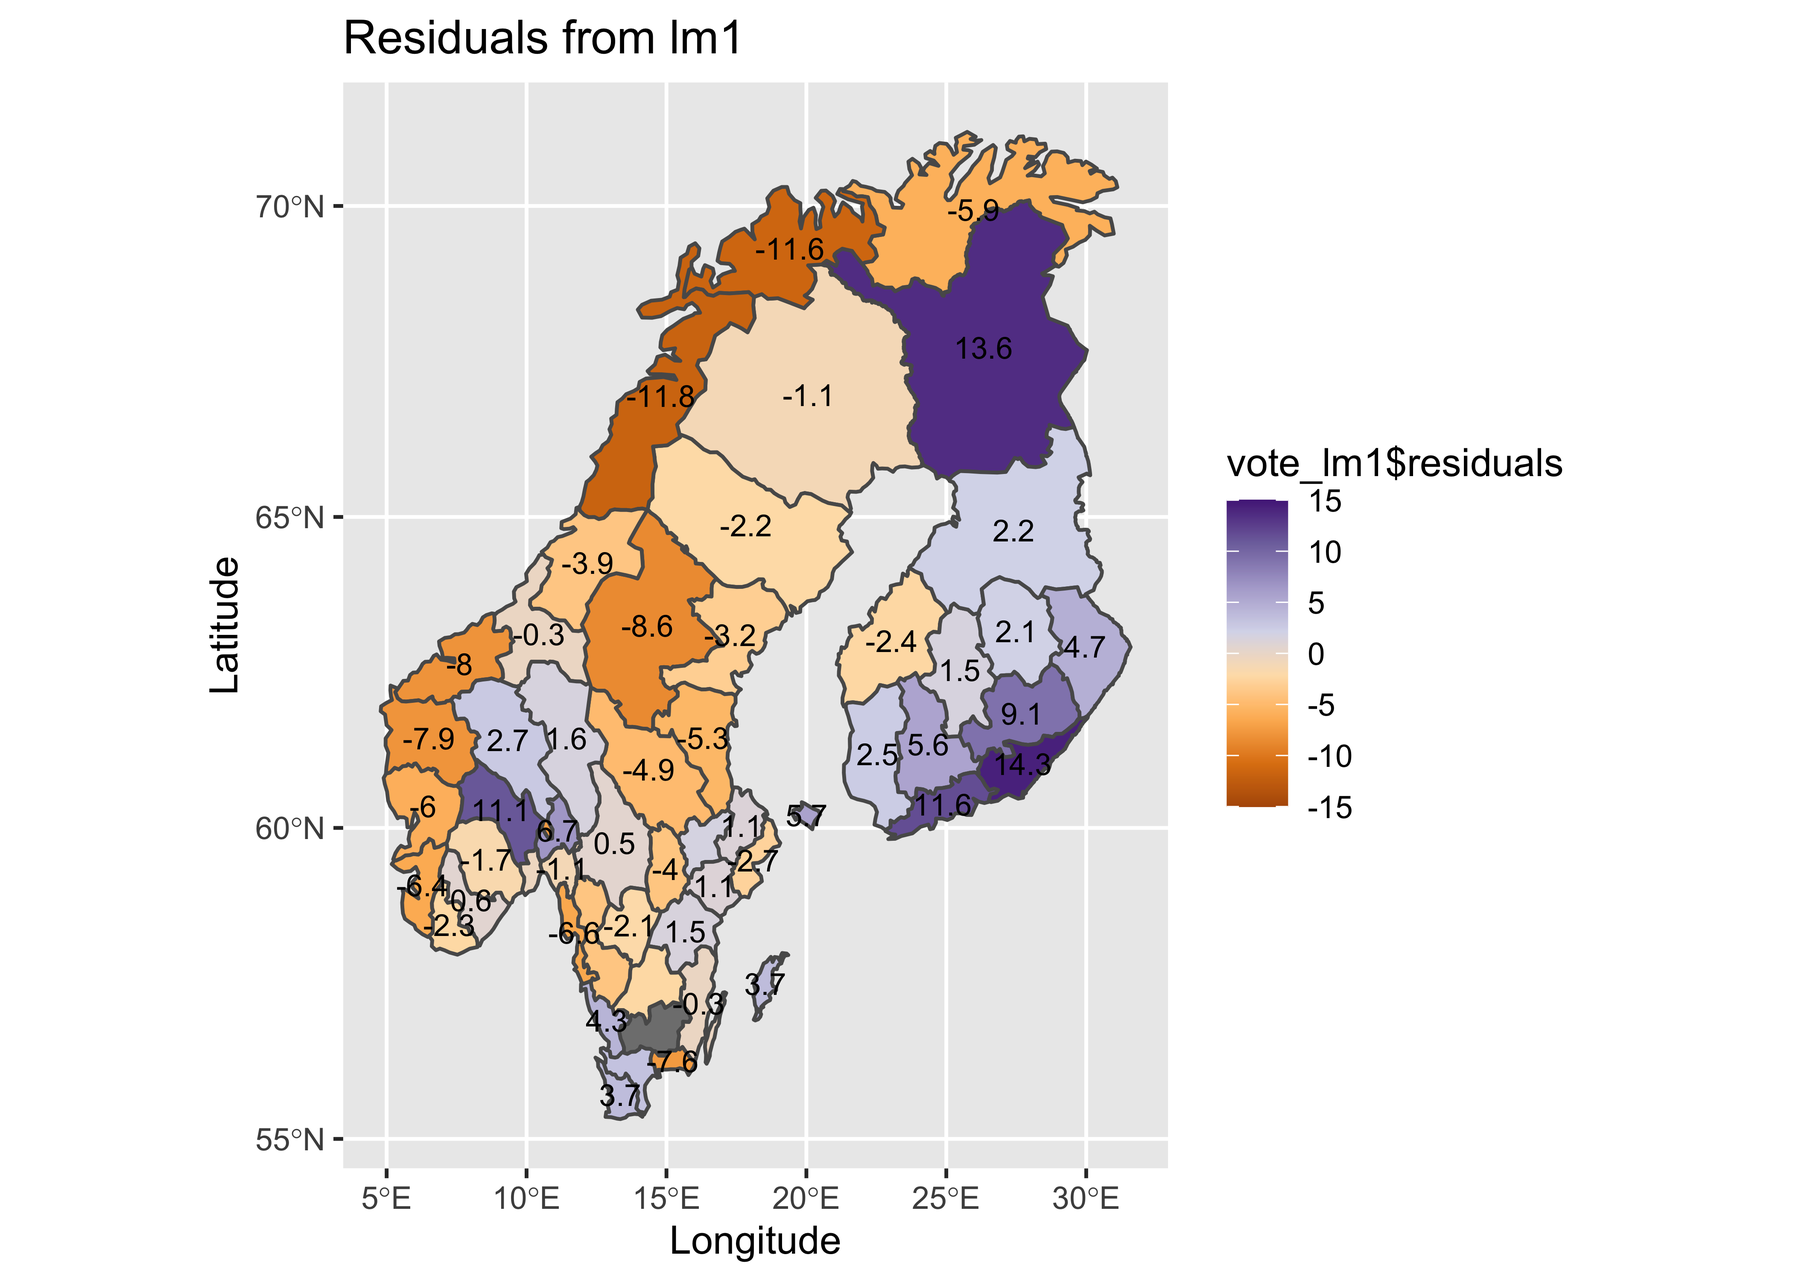
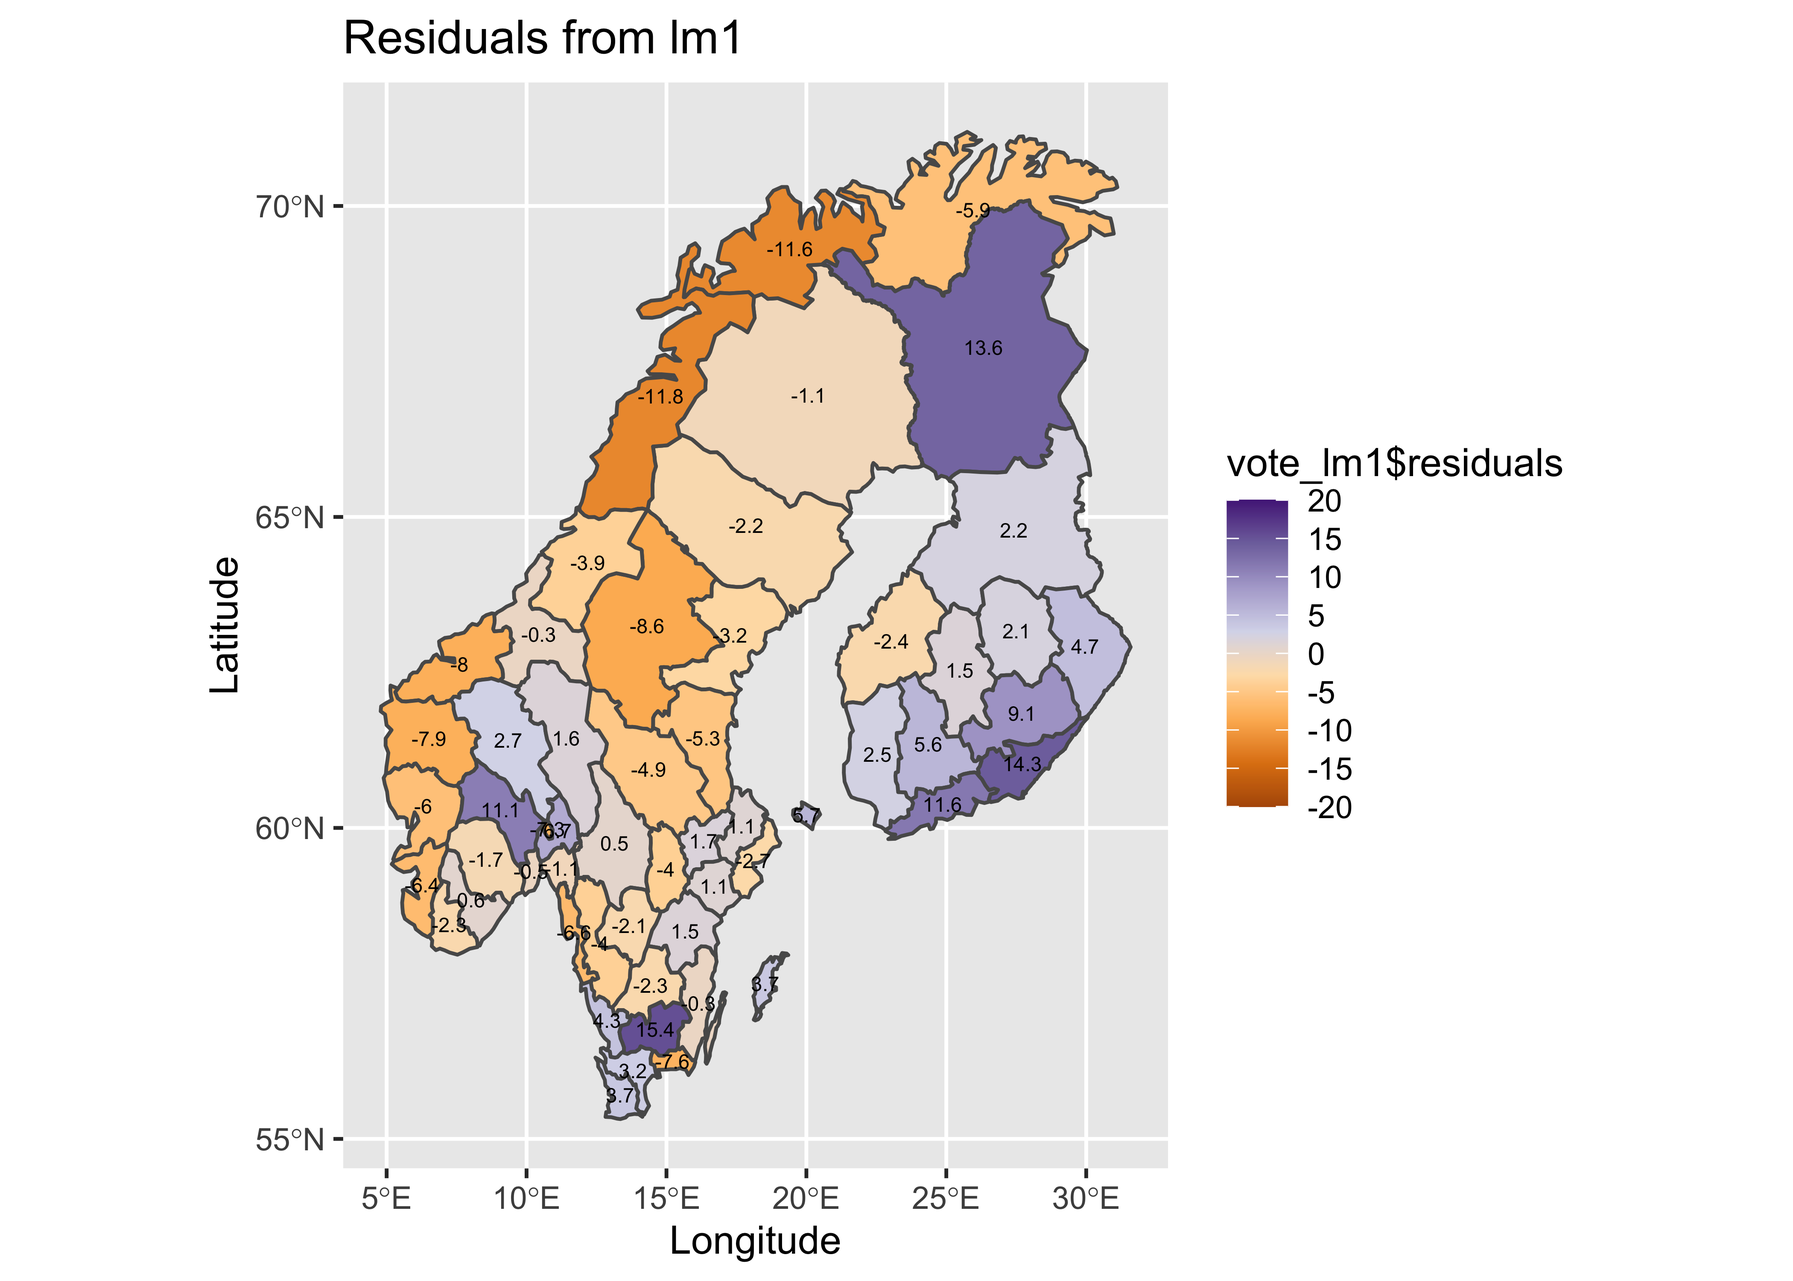
revised lec13.Rmd

diff --git a/docs/lec13.html b/docs/lec13.html
@@ -1080,7 +1080,7 @@ The example data set for illustrating the use of regression diagnostics <a href=
 <div class="sourceCode" id="cb73"><pre class="sourceCode r"><code class="sourceCode r"><a class="sourceLine" id="cb73-1" data-line-number="1"><span class="co"># ggplot2 map of temperature</span></a>
 <a class="sourceLine" id="cb73-2" data-line-number="2">plotvar &lt;-<span class="st"> </span>tmeanjul</a>
 <a class="sourceLine" id="cb73-3" data-line-number="3">plotvar &lt;-<span class="st"> </span>plotvar<span class="op">-</span><span class="kw">mean</span>(plotvar)</a>
-<a class="sourceLine" id="cb73-4" data-line-number="4">plottitle &lt;-<span class="st"> &quot;Modern Climate&quot;</span></a>
+<a class="sourceLine" id="cb73-4" data-line-number="4">plottitle &lt;-<span class="st"> &quot;Modern Climate (mean subtracted)&quot;</span></a>
 <a class="sourceLine" id="cb73-5" data-line-number="5">leglable &lt;-<span class="st"> &quot;tmeanjul (C)&quot;</span></a>
 <a class="sourceLine" id="cb73-6" data-line-number="6"><span class="kw">ggplot</span>() <span class="op">+</span></a>
 <a class="sourceLine" id="cb73-7" data-line-number="7"><span class="st">  </span><span class="kw">geom_sf</span>(<span class="dt">data =</span> midwotl_sf, <span class="dt">fill=</span><span class="st">&quot;grey70&quot;</span>, <span class="dt">color=</span><span class="st">&quot;black&quot;</span>) <span class="op">+</span></a>
@@ -1163,7 +1163,7 @@ The example data set for illustrating the use of regression diagnostics <a href=
 <a class="sourceLine" id="cb80-7" data-line-number="7"><span class="st">  </span><span class="kw">geom_sf</span>(<span class="dt">data =</span> midwotl_sf, <span class="dt">fill=</span><span class="st">&quot;grey70&quot;</span>, <span class="dt">color=</span><span class="st">&quot;black&quot;</span>) <span class="op">+</span></a>
 <a class="sourceLine" id="cb80-8" data-line-number="8"><span class="st">  </span><span class="kw">geom_point</span>(<span class="dt">data =</span> midwtf2, <span class="kw">aes</span>(<span class="dt">x =</span> longitud, <span class="dt">y =</span> latitude, <span class="dt">color =</span> plotvar), <span class="dt">size =</span> <span class="fl">5.0</span> ) <span class="op">+</span></a>
 <a class="sourceLine" id="cb80-9" data-line-number="9"><span class="st">  </span><span class="kw">scale_fill_gradient2</span>(<span class="dt">low =</span> <span class="st">&quot;blue&quot;</span>, <span class="dt">mid=</span> <span class="st">&quot;white&quot;</span>, <span class="dt">high =</span> <span class="st">&quot;red&quot;</span>, <span class="dt">aesthetics =</span> <span class="st">&#39;color&#39;</span>,</a>
-<a class="sourceLine" id="cb80-10" data-line-number="10">                       <span class="dt">limits =</span> <span class="kw">c</span>(<span class="op">-</span><span class="dv">5</span>, <span class="dv">5</span>), <span class="dt">breaks =</span> <span class="kw">seq</span>(<span class="op">-</span><span class="dv">5</span>, <span class="dv">5</span>, <span class="dt">by =</span> <span class="dv">1</span>), <span class="dt">guide =</span> <span class="st">&#39;colorbar&#39;</span>, <span class="dt">name =</span> leglable) <span class="op">+</span></a>
+<a class="sourceLine" id="cb80-10" data-line-number="10">                       <span class="dt">limits =</span> <span class="kw">c</span>(<span class="op">-</span><span class="dv">3</span>, <span class="dv">3</span>), <span class="dt">breaks =</span> <span class="kw">seq</span>(<span class="op">-</span><span class="dv">3</span>, <span class="dv">3</span>, <span class="dt">by =</span> <span class="dv">1</span>), <span class="dt">guide =</span> <span class="st">&#39;colorbar&#39;</span>, <span class="dt">name =</span> leglable) <span class="op">+</span></a>
 <a class="sourceLine" id="cb80-11" data-line-number="11"><span class="st">  </span><span class="kw">labs</span>(<span class="dt">x =</span> <span class="st">&quot;Longitude&quot;</span>, <span class="dt">y =</span> <span class="st">&quot;Latitude&quot;</span>, <span class="dt">title =</span> plottitle) </a></code></pre></div>
 <p><img src="lec13_files/figure-html/mr11-1.png" width="2100" /></p>
 <p>… and calculate the Moran statistic for the naive model residuals:</p>
@@ -1245,7 +1245,7 @@ The example data set for illustrating the use of regression diagnostics <a href=
 <a class="sourceLine" id="cb89-7" data-line-number="7"><span class="st">  </span><span class="kw">geom_sf</span>(<span class="dt">data =</span> midwotl_sf, <span class="dt">fill=</span><span class="st">&quot;grey70&quot;</span>, <span class="dt">color=</span><span class="st">&quot;black&quot;</span>) <span class="op">+</span></a>
 <a class="sourceLine" id="cb89-8" data-line-number="8"><span class="st">  </span><span class="kw">geom_point</span>(<span class="dt">data =</span> midwtf2, <span class="kw">aes</span>(<span class="dt">x =</span> longitud, <span class="dt">y =</span> latitude, <span class="dt">color =</span> plotvar), <span class="dt">size =</span> <span class="fl">5.0</span> ) <span class="op">+</span></a>
 <a class="sourceLine" id="cb89-9" data-line-number="9"><span class="st">  </span><span class="kw">scale_fill_gradient2</span>(<span class="dt">low =</span> <span class="st">&quot;blue&quot;</span>, <span class="dt">mid=</span> <span class="st">&quot;white&quot;</span>, <span class="dt">high =</span> <span class="st">&quot;red&quot;</span>, <span class="dt">aesthetics =</span> <span class="st">&#39;color&#39;</span>,</a>
-<a class="sourceLine" id="cb89-10" data-line-number="10">                       <span class="dt">limits =</span> <span class="kw">c</span>(<span class="op">-</span><span class="dv">5</span>, <span class="dv">5</span>), <span class="dt">breaks =</span> <span class="kw">seq</span>(<span class="op">-</span><span class="dv">5</span>, <span class="dv">5</span>, <span class="dt">by =</span> <span class="dv">1</span>), <span class="dt">guide =</span> <span class="st">&#39;colorbar&#39;</span>, <span class="dt">name =</span> leglable) <span class="op">+</span></a>
+<a class="sourceLine" id="cb89-10" data-line-number="10">                       <span class="dt">limits =</span> <span class="kw">c</span>(<span class="op">-</span><span class="dv">3</span>, <span class="dv">3</span>), <span class="dt">breaks =</span> <span class="kw">seq</span>(<span class="op">-</span><span class="dv">3</span>, <span class="dv">3</span>, <span class="dt">by =</span> <span class="dv">1</span>), <span class="dt">guide =</span> <span class="st">&#39;colorbar&#39;</span>, <span class="dt">name =</span> leglable) <span class="op">+</span></a>
 <a class="sourceLine" id="cb89-11" data-line-number="11"><span class="st">  </span><span class="kw">labs</span>(<span class="dt">x =</span> <span class="st">&quot;Longitude&quot;</span>, <span class="dt">y =</span> <span class="st">&quot;Latitude&quot;</span>, <span class="dt">title =</span> plottitle) </a></code></pre></div>
 <p><img src="lec13_files/figure-html/mr15-1.png" width="2100" /></p>
 <p>Get the Moran statistic for the residuals.</p>
@@ -1364,7 +1364,7 @@ The example data set for illustrating the use of regression diagnostics <a href=
 <a class="sourceLine" id="cb100-7" data-line-number="7"><span class="st">  </span><span class="kw">geom_sf</span>(<span class="dt">data =</span> midwotl_sf, <span class="dt">fill=</span><span class="st">&quot;grey70&quot;</span>, <span class="dt">color=</span><span class="st">&quot;black&quot;</span>) <span class="op">+</span></a>
 <a class="sourceLine" id="cb100-8" data-line-number="8"><span class="st">  </span><span class="kw">geom_point</span>(<span class="dt">data =</span> midwtf2, <span class="kw">aes</span>(<span class="dt">x =</span> longitud, <span class="dt">y =</span> latitude, <span class="dt">color =</span> plotvar), <span class="dt">size =</span> <span class="fl">5.0</span> ) <span class="op">+</span></a>
 <a class="sourceLine" id="cb100-9" data-line-number="9"><span class="st">  </span><span class="kw">scale_fill_gradient2</span>(<span class="dt">low =</span> <span class="st">&quot;blue&quot;</span>, <span class="dt">mid=</span> <span class="st">&quot;white&quot;</span>, <span class="dt">high =</span> <span class="st">&quot;red&quot;</span>, <span class="dt">aesthetics =</span> <span class="st">&#39;color&#39;</span>,</a>
-<a class="sourceLine" id="cb100-10" data-line-number="10">                       <span class="dt">limits =</span> <span class="kw">c</span>(<span class="op">-</span><span class="dv">5</span>, <span class="dv">5</span>), <span class="dt">breaks =</span> <span class="kw">seq</span>(<span class="op">-</span><span class="dv">5</span>, <span class="dv">5</span>, <span class="dt">by =</span> <span class="dv">1</span>), <span class="dt">guide =</span> <span class="st">&#39;colorbar&#39;</span>, <span class="dt">name =</span> leglable) <span class="op">+</span></a>
+<a class="sourceLine" id="cb100-10" data-line-number="10">                       <span class="dt">limits =</span> <span class="kw">c</span>(<span class="op">-</span><span class="dv">3</span>, <span class="dv">3</span>), <span class="dt">breaks =</span> <span class="kw">seq</span>(<span class="op">-</span><span class="dv">3</span>, <span class="dv">3</span>, <span class="dt">by =</span> <span class="dv">1</span>), <span class="dt">guide =</span> <span class="st">&#39;colorbar&#39;</span>, <span class="dt">name =</span> leglable) <span class="op">+</span></a>
 <a class="sourceLine" id="cb100-11" data-line-number="11"><span class="st">  </span><span class="kw">labs</span>(<span class="dt">x =</span> <span class="st">&quot;Longitude&quot;</span>, <span class="dt">y =</span> <span class="st">&quot;Latitude&quot;</span>, <span class="dt">title =</span> plottitle) </a></code></pre></div>
 <p><img src="lec13_files/figure-html/mr20-1.png" width="2100" /></p>
 <div class="sourceCode" id="cb101"><pre class="sourceCode r"><code class="sourceCode r"><a class="sourceLine" id="cb101-1" data-line-number="1"><span class="co"># Moran test</span></a>
@@ -1561,10 +1561,9 @@ The example data set for illustrating the use of regression diagnostics <a href=
 <a class="sourceLine" id="cb130-4" data-line-number="4">plottitle &lt;-<span class="st"> &quot;Residuals from lm1&quot;</span></a>
 <a class="sourceLine" id="cb130-5" data-line-number="5"><span class="kw">ggplot</span>()  <span class="op">+</span></a>
 <a class="sourceLine" id="cb130-6" data-line-number="6"><span class="st">  </span><span class="kw">geom_sf</span>(<span class="dt">data =</span> scand_prov_sf, <span class="kw">aes</span>(<span class="dt">fill =</span> vote_lm1<span class="op">$</span>residuals)) <span class="op">+</span></a>
-<a class="sourceLine" id="cb130-7" data-line-number="7"><span class="st">  </span><span class="kw">geom_sf_text</span>(<span class="dt">data =</span> scand_prov_pts, <span class="kw">aes</span>(<span class="dt">geometry=</span>geometry, <span class="dt">label=</span>plotlab),</a>
-<a class="sourceLine" id="cb130-8" data-line-number="8">       <span class="dt">check_overlap =</span> <span class="ot">TRUE</span>, <span class="dt">size =</span> <span class="dv">3</span>) <span class="op">+</span></a>
-<a class="sourceLine" id="cb130-9" data-line-number="9"><span class="st">  </span><span class="kw">scale_fill_gradientn</span>(<span class="dt">colors =</span> pal, <span class="dt">limits =</span> <span class="kw">c</span>(<span class="op">-</span><span class="dv">15</span>, <span class="dv">15</span>), <span class="dt">breaks =</span> <span class="kw">seq</span>(<span class="op">-</span><span class="dv">15</span>, <span class="dv">15</span>, <span class="dt">by =</span> <span class="dv">5</span>)) <span class="op">+</span></a>
-<a class="sourceLine" id="cb130-10" data-line-number="10"><span class="st">  </span><span class="kw">labs</span>(<span class="dt">title =</span> plottitle, <span class="dt">x=</span><span class="st">&quot;Longitude&quot;</span>, <span class="dt">y=</span><span class="st">&quot;Latitude&quot;</span>) </a></code></pre></div>
+<a class="sourceLine" id="cb130-7" data-line-number="7"><span class="st">  </span><span class="kw">geom_sf_text</span>(<span class="dt">data =</span> scand_prov_pts, <span class="kw">aes</span>(<span class="dt">geometry=</span>geometry, <span class="dt">label=</span>plotlab), <span class="dt">size =</span> <span class="dv">2</span>) <span class="op">+</span></a>
+<a class="sourceLine" id="cb130-8" data-line-number="8"><span class="st">  </span><span class="kw">scale_fill_gradientn</span>(<span class="dt">colors =</span> pal, <span class="dt">limits =</span> <span class="kw">c</span>(<span class="op">-</span><span class="dv">20</span>, <span class="dv">20</span>), <span class="dt">breaks =</span> <span class="kw">seq</span>(<span class="op">-</span><span class="dv">20</span>, <span class="dv">20</span>, <span class="dt">by =</span> <span class="dv">5</span>)) <span class="op">+</span></a>
+<a class="sourceLine" id="cb130-9" data-line-number="9"><span class="st">  </span><span class="kw">labs</span>(<span class="dt">title =</span> plottitle, <span class="dt">x=</span><span class="st">&quot;Longitude&quot;</span>, <span class="dt">y=</span><span class="st">&quot;Latitude&quot;</span>) </a></code></pre></div>
 <pre><code>## Warning in st_point_on_surface.sfc(sf::st_zm(x)): st_point_on_surface may not give correct results for
 ## longitude/latitude data</code></pre>
 <p><img src="lec13_files/figure-html/dum09-1.png" width="2100" /></p>
@@ -1629,10 +1628,9 @@ The example data set for illustrating the use of regression diagnostics <a href=
 <a class="sourceLine" id="cb138-4" data-line-number="4">plottitle &lt;-<span class="st"> &quot;Residuals from lm2&quot;</span></a>
 <a class="sourceLine" id="cb138-5" data-line-number="5"><span class="kw">ggplot</span>()  <span class="op">+</span></a>
 <a class="sourceLine" id="cb138-6" data-line-number="6"><span class="st">  </span><span class="kw">geom_sf</span>(<span class="dt">data =</span> scand_prov_sf, <span class="kw">aes</span>(<span class="dt">fill =</span> vote_lm2<span class="op">$</span>residuals)) <span class="op">+</span></a>
-<a class="sourceLine" id="cb138-7" data-line-number="7"><span class="st">  </span><span class="kw">geom_sf_text</span>(<span class="dt">data =</span> scand_prov_pts, <span class="kw">aes</span>(<span class="dt">geometry=</span>geometry, <span class="dt">label=</span>plotlab),</a>
-<a class="sourceLine" id="cb138-8" data-line-number="8">               <span class="dt">check_overlap =</span> <span class="ot">TRUE</span>, <span class="dt">size =</span> <span class="dv">3</span>) <span class="op">+</span></a>
-<a class="sourceLine" id="cb138-9" data-line-number="9"><span class="st">  </span><span class="kw">scale_fill_gradientn</span>(<span class="dt">colors =</span> pal, <span class="dt">limits =</span> <span class="kw">c</span>(<span class="op">-</span><span class="dv">15</span>, <span class="dv">15</span>), <span class="dt">breaks =</span> <span class="kw">seq</span>(<span class="op">-</span><span class="dv">15</span>, <span class="dv">15</span>, <span class="dt">by =</span> <span class="dv">5</span>)) <span class="op">+</span></a>
-<a class="sourceLine" id="cb138-10" data-line-number="10"><span class="st">  </span><span class="kw">labs</span>(<span class="dt">title =</span> plottitle, <span class="dt">x=</span><span class="st">&quot;Longitude&quot;</span>, <span class="dt">y=</span><span class="st">&quot;Latitude&quot;</span>) </a></code></pre></div>
+<a class="sourceLine" id="cb138-7" data-line-number="7"><span class="st">  </span><span class="kw">geom_sf_text</span>(<span class="dt">data =</span> scand_prov_pts, <span class="kw">aes</span>(<span class="dt">geometry=</span>geometry, <span class="dt">label=</span>plotlab), <span class="dt">size =</span> <span class="dv">3</span>) <span class="op">+</span></a>
+<a class="sourceLine" id="cb138-8" data-line-number="8"><span class="st">  </span><span class="kw">scale_fill_gradientn</span>(<span class="dt">colors =</span> pal, <span class="dt">limits =</span> <span class="kw">c</span>(<span class="op">-</span><span class="dv">20</span>, <span class="dv">20</span>), <span class="dt">breaks =</span> <span class="kw">seq</span>(<span class="op">-</span><span class="dv">20</span>, <span class="dv">20</span>, <span class="dt">by =</span> <span class="dv">5</span>)) <span class="op">+</span></a>
+<a class="sourceLine" id="cb138-9" data-line-number="9"><span class="st">  </span><span class="kw">labs</span>(<span class="dt">title =</span> plottitle, <span class="dt">x=</span><span class="st">&quot;Longitude&quot;</span>, <span class="dt">y=</span><span class="st">&quot;Latitude&quot;</span>) </a></code></pre></div>
 <pre><code>## Warning in st_point_on_surface.sfc(sf::st_zm(x)): st_point_on_surface may not give correct results for
 ## longitude/latitude data</code></pre>
 <p><img src="lec13_files/figure-html/dum14-1.png" width="2100" /></p>
@@ -1690,10 +1688,9 @@ The example data set for illustrating the use of regression diagnostics <a href=
 <a class="sourceLine" id="cb144-4" data-line-number="4">plottitle &lt;-<span class="st"> &quot;Residuals from lm3&quot;</span></a>
 <a class="sourceLine" id="cb144-5" data-line-number="5"><span class="kw">ggplot</span>()  <span class="op">+</span></a>
 <a class="sourceLine" id="cb144-6" data-line-number="6"><span class="st">  </span><span class="kw">geom_sf</span>(<span class="dt">data =</span> scand_prov_sf, <span class="kw">aes</span>(<span class="dt">fill =</span> vote_lm3<span class="op">$</span>residuals)) <span class="op">+</span></a>
-<a class="sourceLine" id="cb144-7" data-line-number="7"><span class="st">  </span><span class="kw">geom_sf_text</span>(<span class="dt">data =</span> scand_prov_pts, <span class="kw">aes</span>(<span class="dt">geometry=</span>geometry, <span class="dt">label=</span>plotlab),</a>
-<a class="sourceLine" id="cb144-8" data-line-number="8">               <span class="dt">check_overlap =</span> <span class="ot">TRUE</span>, <span class="dt">size =</span> <span class="dv">3</span>) <span class="op">+</span></a>
-<a class="sourceLine" id="cb144-9" data-line-number="9"><span class="st">  </span><span class="kw">scale_fill_gradientn</span>(<span class="dt">colors =</span> pal, <span class="dt">limits =</span> <span class="kw">c</span>(<span class="op">-</span><span class="dv">15</span>, <span class="dv">15</span>), <span class="dt">breaks =</span> <span class="kw">seq</span>(<span class="op">-</span><span class="dv">15</span>, <span class="dv">15</span>, <span class="dt">by =</span> <span class="dv">5</span>)) <span class="op">+</span></a>
-<a class="sourceLine" id="cb144-10" data-line-number="10"><span class="st">  </span><span class="kw">labs</span>(<span class="dt">title =</span> plottitle, <span class="dt">x=</span><span class="st">&quot;Longitude&quot;</span>, <span class="dt">y=</span><span class="st">&quot;Latitude&quot;</span>) </a></code></pre></div>
+<a class="sourceLine" id="cb144-7" data-line-number="7"><span class="st">  </span><span class="kw">geom_sf_text</span>(<span class="dt">data =</span> scand_prov_pts, <span class="kw">aes</span>(<span class="dt">geometry=</span>geometry, <span class="dt">label=</span>plotlab), <span class="dt">size =</span> <span class="dv">3</span>) <span class="op">+</span></a>
+<a class="sourceLine" id="cb144-8" data-line-number="8"><span class="st">  </span><span class="kw">scale_fill_gradientn</span>(<span class="dt">colors =</span> pal, <span class="dt">limits =</span> <span class="kw">c</span>(<span class="op">-</span><span class="dv">20</span>, <span class="dv">20</span>), <span class="dt">breaks =</span> <span class="kw">seq</span>(<span class="op">-</span><span class="dv">20</span>, <span class="dv">20</span>, <span class="dt">by =</span> <span class="dv">5</span>)) <span class="op">+</span></a>
+<a class="sourceLine" id="cb144-9" data-line-number="9"><span class="st">  </span><span class="kw">labs</span>(<span class="dt">title =</span> plottitle, <span class="dt">x=</span><span class="st">&quot;Longitude&quot;</span>, <span class="dt">y=</span><span class="st">&quot;Latitude&quot;</span>) </a></code></pre></div>
 <pre><code>## Warning in st_point_on_surface.sfc(sf::st_zm(x)): st_point_on_surface may not give correct results for
 ## longitude/latitude data</code></pre>
 <p><img src="lec13_files/figure-html/dum17-1.png" width="2100" /></p>
